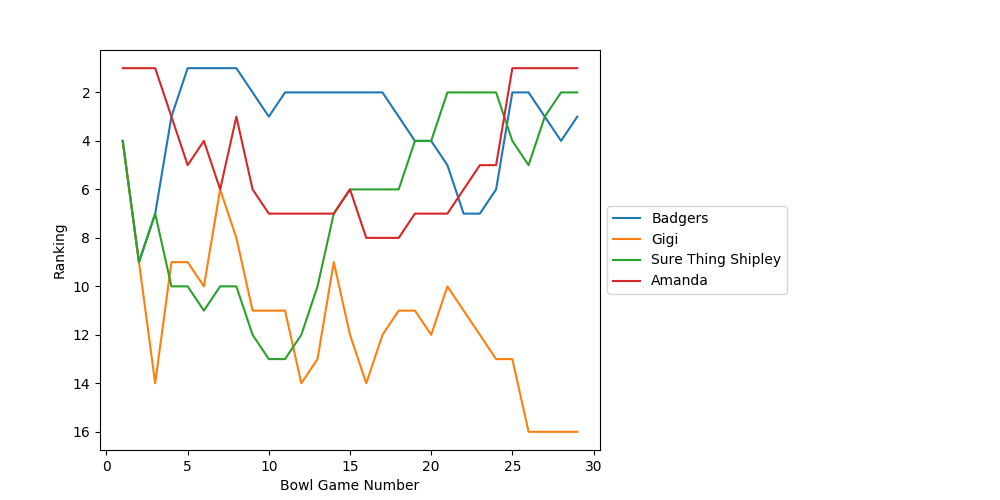
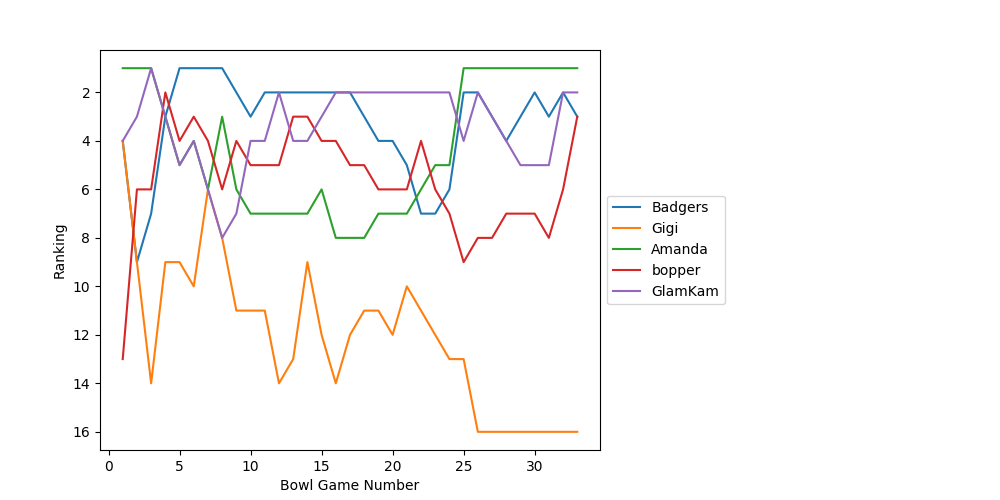
Rose Bowl update with highlights

diff --git a/bowl_pool/2022-2023/results.html b/bowl_pool/2022-2023/results.html
@@ -1050,6 +1050,116 @@ ul.auto-toc {
 <td>2.0</td>
 <td>2.0</td>
 </tr>
+<tr><td>30</td>
+<td>Outback Bowl</td>
+<td>Illinois</td>
+<td>Mississippi State</td>
+<td>2.0</td>
+<td>2.25<sup>*</sup></td>
+<td>2.25<sup>*</sup></td>
+<td>1.25</td>
+<td>1.25</td>
+<td>1.25</td>
+<td>1.25</td>
+<td>1.25</td>
+<td>1.25</td>
+<td>1.25</td>
+<td>1.25</td>
+<td>2.25<sup>*</sup></td>
+<td>1.25</td>
+<td>1.25</td>
+<td>1.25</td>
+<td>0.0</td>
+<td>2.25<sup>*</sup></td>
+</tr>
+<tr><td>31</td>
+<td>Citrus Bowl</td>
+<td>LSU</td>
+<td>Purdue</td>
+<td>14.5</td>
+<td>2.0<sup>*</sup></td>
+<td>1.0</td>
+<td>1.0</td>
+<td>0.0</td>
+<td>1.0</td>
+<td>2.0<sup>*</sup></td>
+<td>1.0</td>
+<td>1.0</td>
+<td>1.0</td>
+<td>2.0<sup>*</sup></td>
+<td>0.0</td>
+<td>1.0</td>
+<td>1.0</td>
+<td>2.0<sup>*</sup></td>
+<td>2.0<sup>*</sup></td>
+<td>2.0<sup>*</sup></td>
+</tr>
+<tr><td>32</td>
+<td>Cotton Bowl</td>
+<td>USC</td>
+<td>Tulane</td>
+<td>2.5</td>
+<td>0.0</td>
+<td>0.0</td>
+<td>0.0</td>
+<td>2.5</td>
+<td>2.5</td>
+<td>0.0</td>
+<td>0.0</td>
+<td>2.5</td>
+<td>2.5</td>
+<td>0.0</td>
+<td>0.0</td>
+<td>2.5</td>
+<td>2.5</td>
+<td>0.0</td>
+<td>0.0</td>
+<td>0.0</td>
+</tr>
+<tr><td>33</td>
+<td>Rose Bowl</td>
+<td>Utah</td>
+<td>Penn State</td>
+<td>2.5</td>
+<td>2.5</td>
+<td>0.0</td>
+<td>2.5</td>
+<td>2.5</td>
+<td>0.0</td>
+<td>0.0</td>
+<td>0.0</td>
+<td>2.5</td>
+<td>0.0</td>
+<td>0.0</td>
+<td>0.0</td>
+<td>2.5</td>
+<td>0.0</td>
+<td>0.0</td>
+<td>0.0</td>
+<td>0.0</td>
+</tr>
+<tr><td>B2</td>
+<td>How many of these teams will cancel their bowl game?</td>
+<td>&nbsp;</td>
+<td>&nbsp;</td>
+<td>&nbsp;</td>
+<td>1.0</td>
+<td>1.0</td>
+<td>1.0</td>
+<td>0.0</td>
+<td>1.0</td>
+<td>0.0</td>
+<td>0.0</td>
+<td>0.0</td>
+<td>1.0</td>
+<td>1.0</td>
+<td>0.0</td>
+<td>1.0</td>
+<td>1.0</td>
+<td>1.0</td>
+<td>1.0</td>
+<td>0.0</td>
+</tr>
 <tr><td>B3</td>
 <td>Will more than 62 total points be scored in the Peach Bowl?</td>
 <td>&nbsp;</td>
@@ -1094,6 +1204,28 @@ ul.auto-toc {
 <td>1.0</td>
 <td>0.0</td>
 </tr>
+<tr><td>B5</td>
+<td>Will Caleb Williams pass for more than 300 yards against Tulane?</td>
+<td>&nbsp;</td>
+<td>&nbsp;</td>
+<td>&nbsp;</td>
+<td>0.0</td>
+<td>1.0</td>
+<td>1.0</td>
+<td>0.0</td>
+<td>0.0</td>
+<td>1.0</td>
+<td>1.0</td>
+<td>1.0</td>
+<td>0.0</td>
+<td>1.0</td>
+<td>0.0</td>
+<td>1.0</td>
+<td>0.0</td>
+<td>0.0</td>
+<td>1.0</td>
+<td>0.0</td>
+</tr>
 <tr><td>B6</td>
 <td>Will an orange-colored team win the Orange Bowl?</td>
 <td>&nbsp;</td>
@@ -1121,22 +1253,22 @@ ul.auto-toc {
 <td>&nbsp;</td>
 <td>&nbsp;</td>
 <td>&nbsp;</td>
-<td><strong>19.5</strong></td>
-<td><strong>20.25</strong></td>
 <td><strong>27.25</strong></td>
-<td><strong>19.5</strong></td>
-<td><strong>24.0</strong></td>
-<td><strong>21.5</strong></td>
-<td><strong>21.0</strong></td>
-<td><strong>21.5</strong></td>
-<td><strong>23.25</strong></td>
-<td><strong>17.25</strong></td>
-<td><strong>14.75</strong></td>
-<td><strong>23.0</strong></td>
-<td><strong>20.5</strong></td>
-<td><strong>22.0</strong></td>
-<td><strong>25.0</strong></td>
-<td><strong>17.5</strong></td>
+<td><strong>25.5</strong></td>
+<td><strong>34.0</strong></td>
+<td><strong>25.75</strong></td>
+<td><strong>29.75</strong></td>
+<td><strong>25.75</strong></td>
+<td><strong>24.25</strong></td>
+<td><strong>29.75</strong></td>
+<td><strong>29.0</strong></td>
+<td><strong>22.5</strong></td>
+<td><strong>17.0</strong></td>
+<td><strong>32.25</strong></td>
+<td><strong>26.25</strong></td>
+<td><strong>26.25</strong></td>
+<td><strong>29.0</strong></td>
+<td><strong>21.75</strong></td>
 </tr>
 </tbody>
 </table>

diff --git a/bowl_pool/2022-2023/rankings.html b/bowl_pool/2022-2023/rankings.html
@@ -364,26 +364,26 @@ ul.auto-toc {
 
 
 <div class="line-block">
-<div class="line"><em>Last updated:  2023-01-01 00:14:16</em></div>
-<div class="line"><em>Last bowl scored:  Peach Bowl (Georgia vs. Ohio State)</em></div>
+<div class="line"><em>Last updated:  2023-01-02 23:03:40</em></div>
+<div class="line"><em>Last bowl scored:  Rose Bowl (Utah vs. Penn State)</em></div>
 </div>
 <div class="line-block">
-<div class="line">1. <strong>Amanda 27.25</strong></div>
-<div class="line">2. <strong>Sure Thing Shipley 25.0</strong></div>
-<div class="line">3. <strong>Badgers 24.0</strong></div>
-<div class="line">4. Bugaroo 23.25</div>
-<div class="line">5. GlamKam 23.0</div>
-<div class="line">6. NIL 22.0</div>
-<div class="line">7. Bear-in-Law 21.5</div>
-<div class="line">7. bopper 21.5</div>
-<div class="line">9. blue orred 21.0</div>
-<div class="line">10. MamaLonghorn 20.5</div>
-<div class="line">11. Aggie Austin 20.25</div>
-<div class="line">12. #mamabear 19.5</div>
-<div class="line">12. Bad News Bibby 19.5</div>
-<div class="line">14. W2D2 17.5</div>
-<div class="line">15. D-bo 17.25</div>
-<div class="line">16. <strong>Gigi 14.75</strong></div>
+<div class="line">1. <strong>Amanda 34.0</strong></div>
+<div class="line">2. <strong>GlamKam 32.25</strong></div>
+<div class="line">3. <strong>Badgers 29.75</strong></div>
+<div class="line">3. <strong>bopper 29.75</strong></div>
+<div class="line">5. Bugaroo 29.0</div>
+<div class="line">5. Sure Thing Shipley 29.0</div>
+<div class="line">7. #mamabear 27.25</div>
+<div class="line">8. MamaLonghorn 26.25</div>
+<div class="line">8. NIL 26.25</div>
+<div class="line">10. Bad News Bibby 25.75</div>
+<div class="line">10. Bear-in-Law 25.75</div>
+<div class="line">12. Aggie Austin 25.5</div>
+<div class="line">13. blue orred 24.25</div>
+<div class="line">14. D-bo 22.5</div>
+<div class="line">15. W2D2 21.75</div>
+<div class="line">16. <strong>Gigi 17.0</strong></div>
 </div>
 </div>
 </body>

diff --git a/bowl_pool/2022-2023/index.html b/bowl_pool/2022-2023/index.html
@@ -365,8 +365,8 @@ ul.auto-toc {
 
 <p><strong>2022-2023 Bowl Pool</strong></p>
 <div class="line-block">
-<div class="line"><em>Last updated:  2023-01-01 00:14:16</em></div>
-<div class="line"><em>Last bowl scored:  Peach Bowl (Georgia vs. Ohio State)</em></div>
+<div class="line"><em>Last updated:  2023-01-02 23:03:40</em></div>
+<div class="line"><em>Last bowl scored:  Rose Bowl (Utah vs. Penn State)</em></div>
 </div>
 <ul class="simple">
 <li><a class="reference external" href="rankings.html">Rankings</a> (<a class="reference external" href="rankings.csv">csv</a>)</li>
